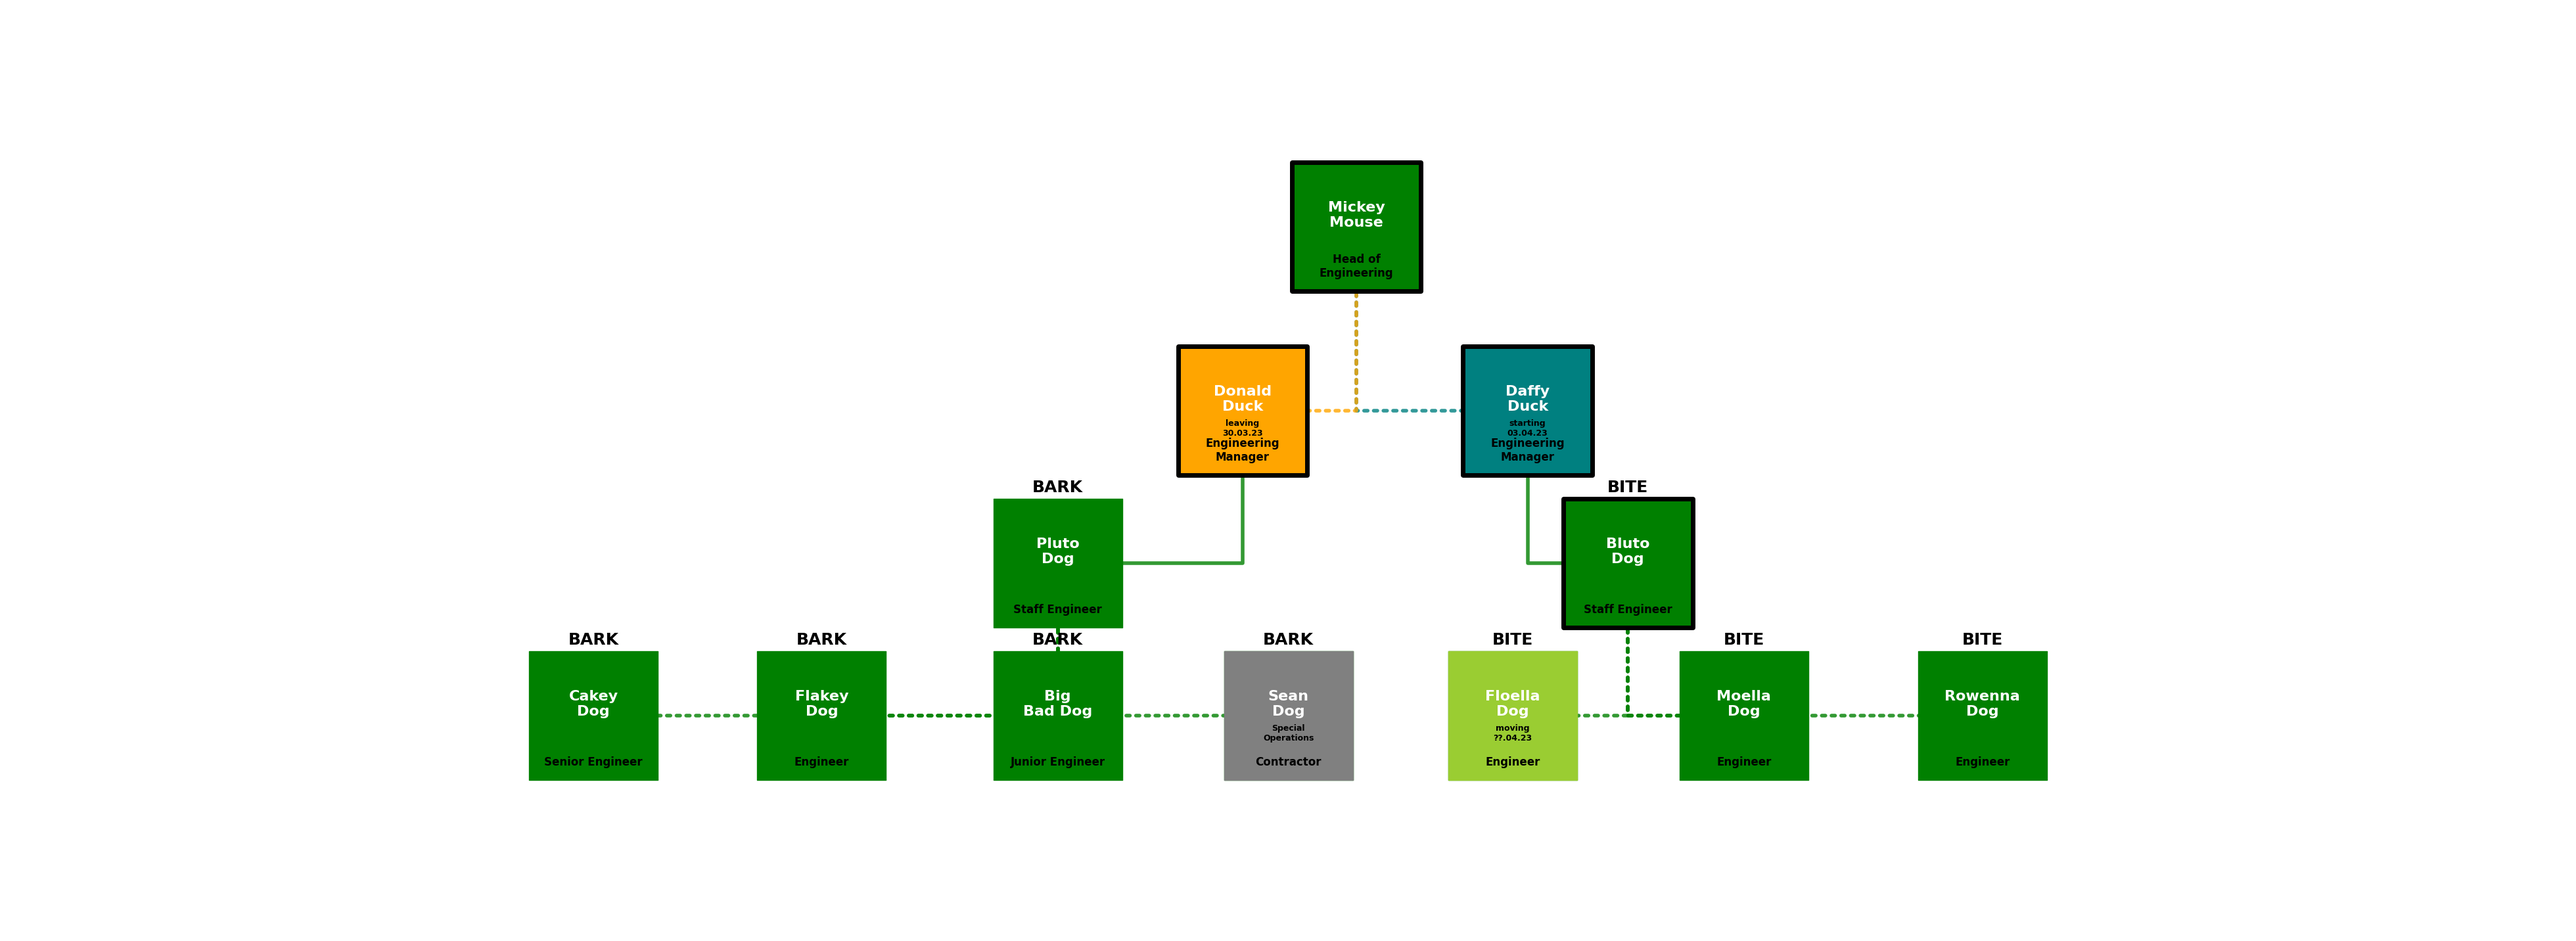
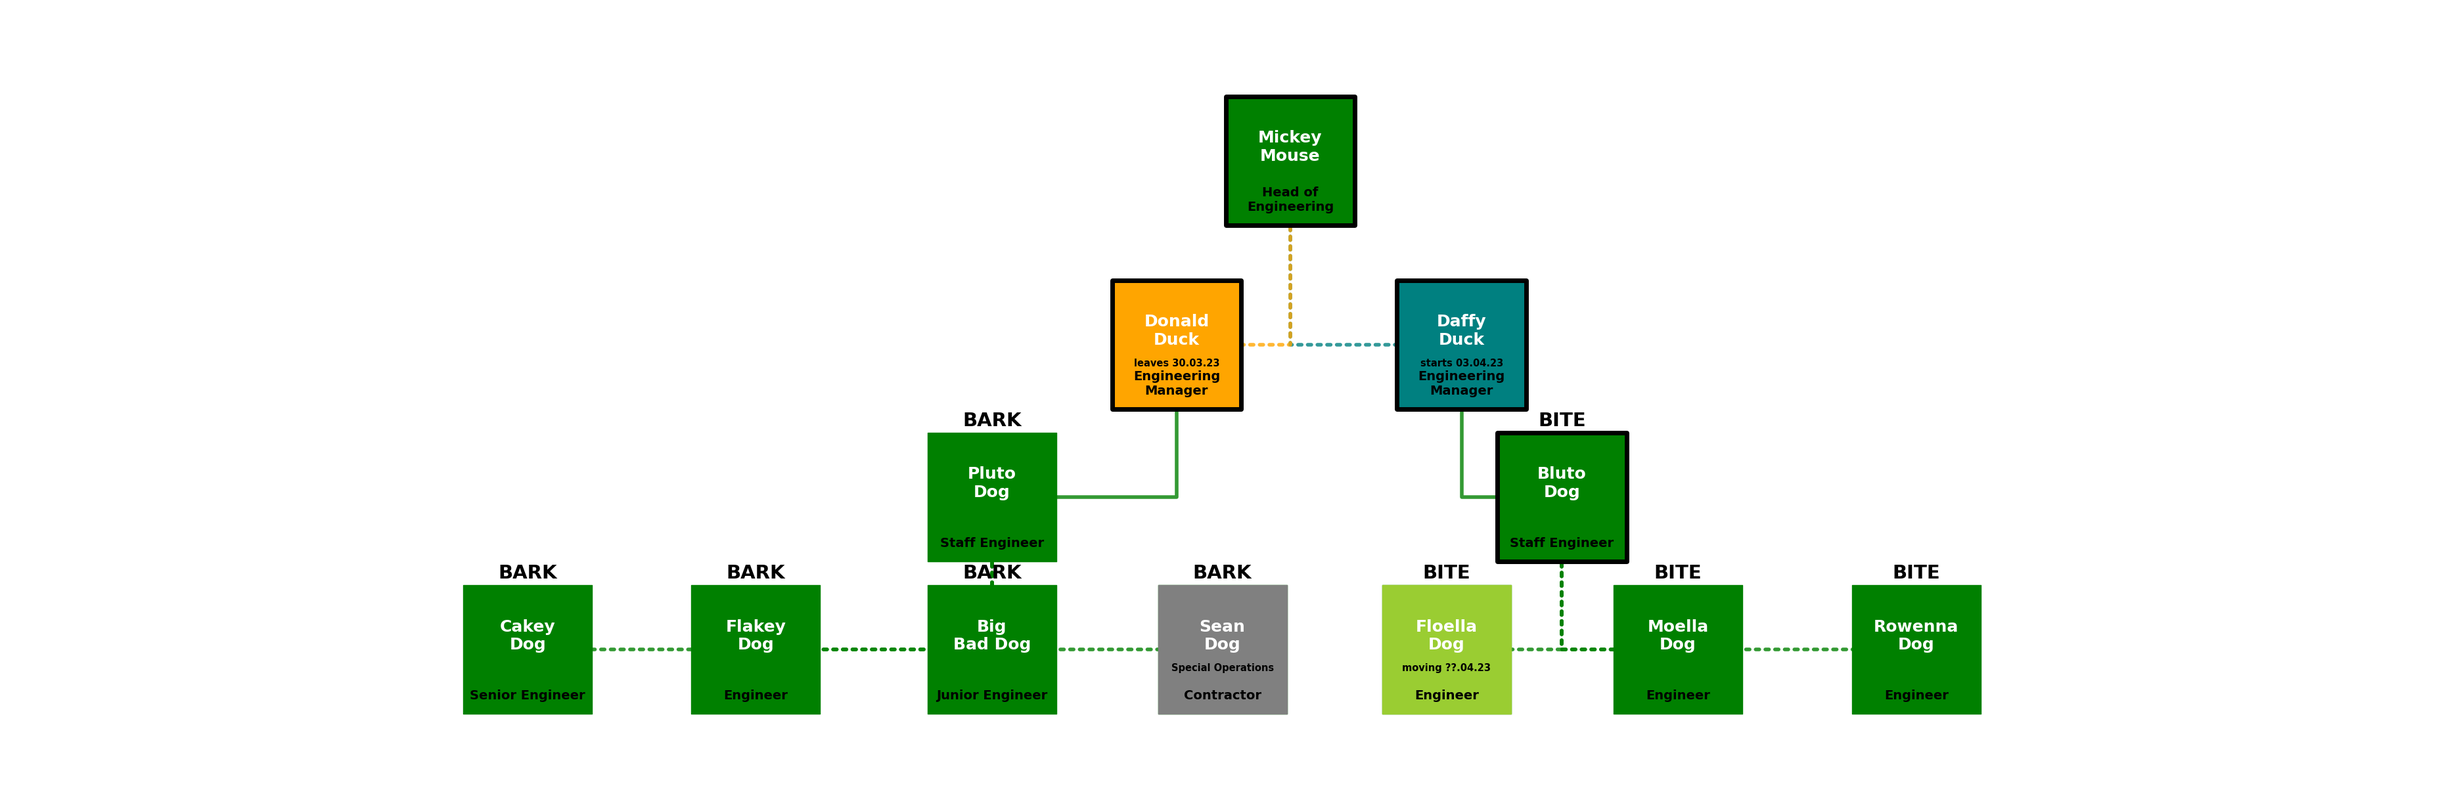
More tweaking of images to ensure test run output is ok

Changed region(s): [[0.4366, 0.0925, 0.8108, 0.8945], [0.1871, 0.4935, 0.5301, 0.8945]]

diff --git a/organogram.py b/organogram.py
@@ -614,8 +614,8 @@ class OrganisationDiagrammer(object):
             drawTextField(y + offset * 5, team, size * 1.5, fcolor)
         for name, d in n_note:  # node note goes inside the node
             x, y = pos.get(name)
-            note = proc_field(d.get("note"), True)
-            drawTextField(y - offset * 1.75, note, size * 0.75, fcolor)
+            note = proc_field(d.get("note"))
+            drawTextField(y - offset * 1.5, note, size * 0.75, fcolor)
         for name, d in n_jobtitle:  # jobtitle goes at the bottom of the node
             x, y = pos.get(name)
             job = d.get("jobtitle")
@@ -670,6 +670,7 @@ class OrganisationDiagrammer(object):
         plt.clf()
         #args = "-Gnodesep=3 -Granksep=0 -Gpad=0.1 -Grankdir=TB"
         args = "-Gnodesep=3 -Granksep=0.05 -Gpad=1.0 -Gmargin=1.0 -Grankdir=TB"
+        scale = 4
         plt.figure(figsize=(scale * 3, scale))  # Larger scale = larger figure size
         pos = nx.nx_agraph.graphviz_layout(g, prog="dot", root=None, args=args)
 
@@ -688,7 +689,7 @@ class OrganisationDiagrammer(object):
         params.set_size_inches((plSize[0] * scale, plSize[1] * scale))
         logger.info(f'plSize = {plSize}, setting image size to {plSize[0] * scale} by {plSize[1] * scale}')
         # Add padding to ensure edges don't get cut off
-        plt.savefig(image_file, bbox_inches="tight", pad_inches=1)
+        plt.savefig(image_file, bbox_inches="tight", pad_inches=0.0)
         if resetScale:
             # We need to reset the size of the figure to the original size
             params.set_size_inches((plSize[0], plSize[1]))
